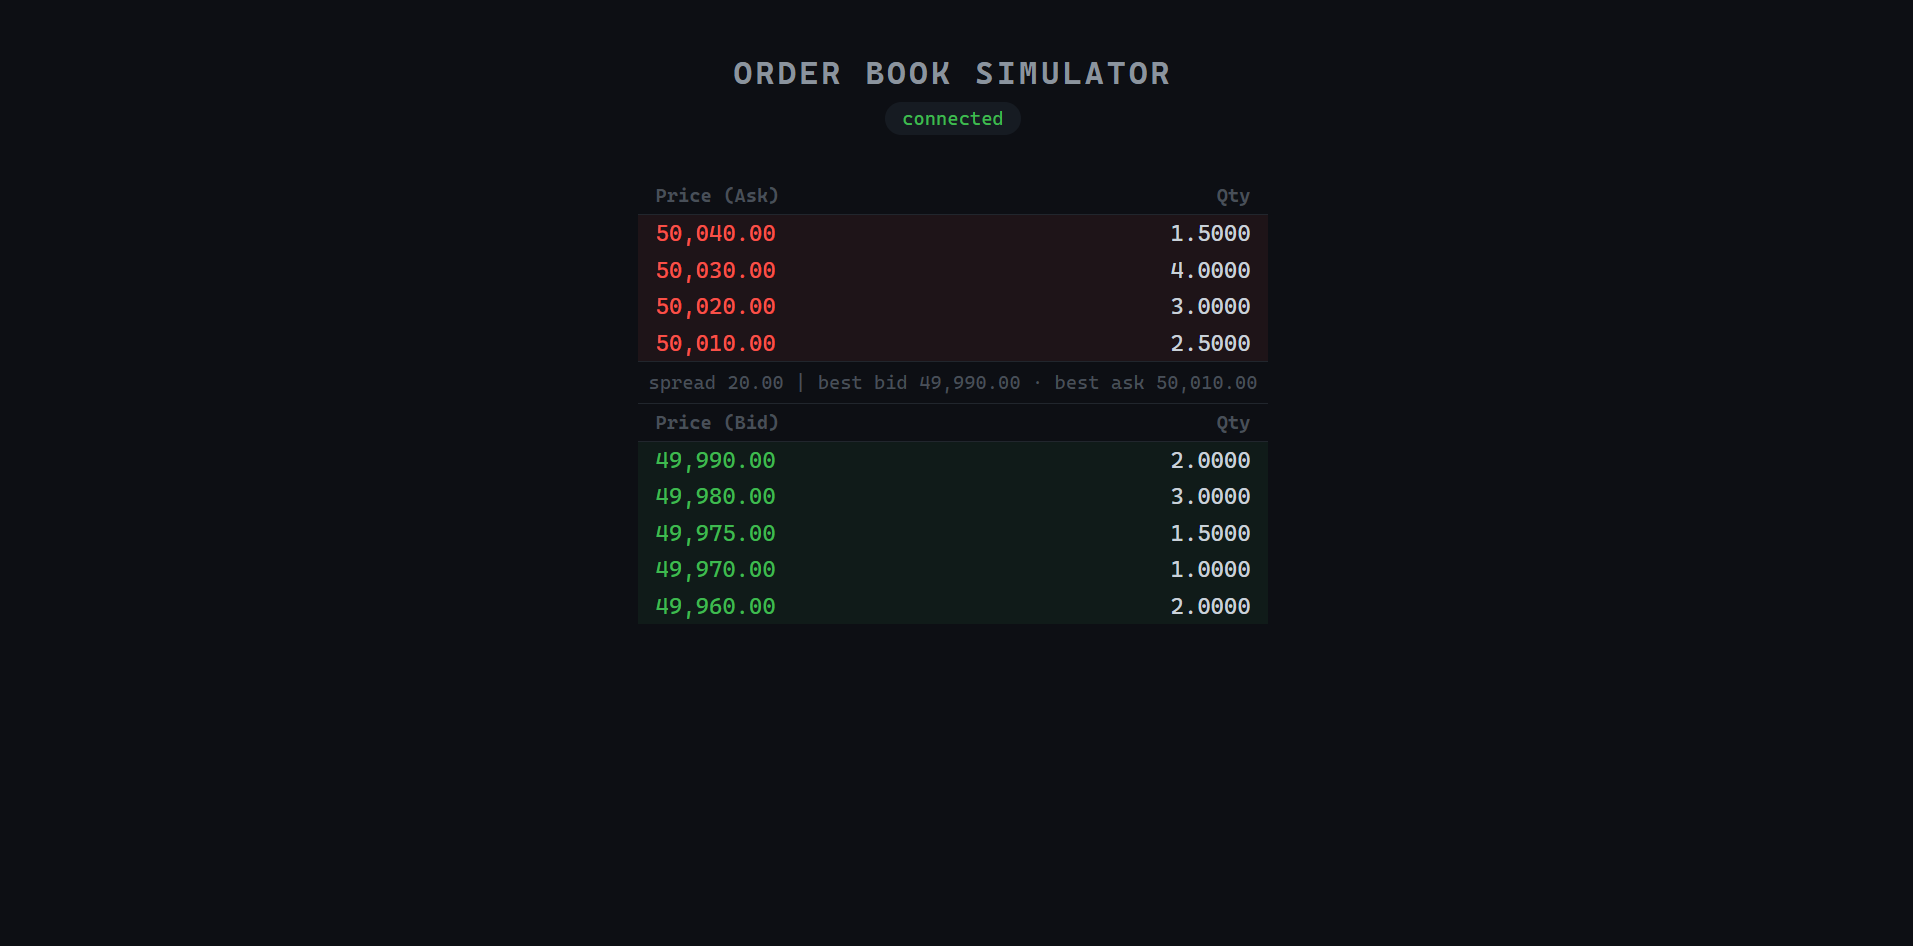
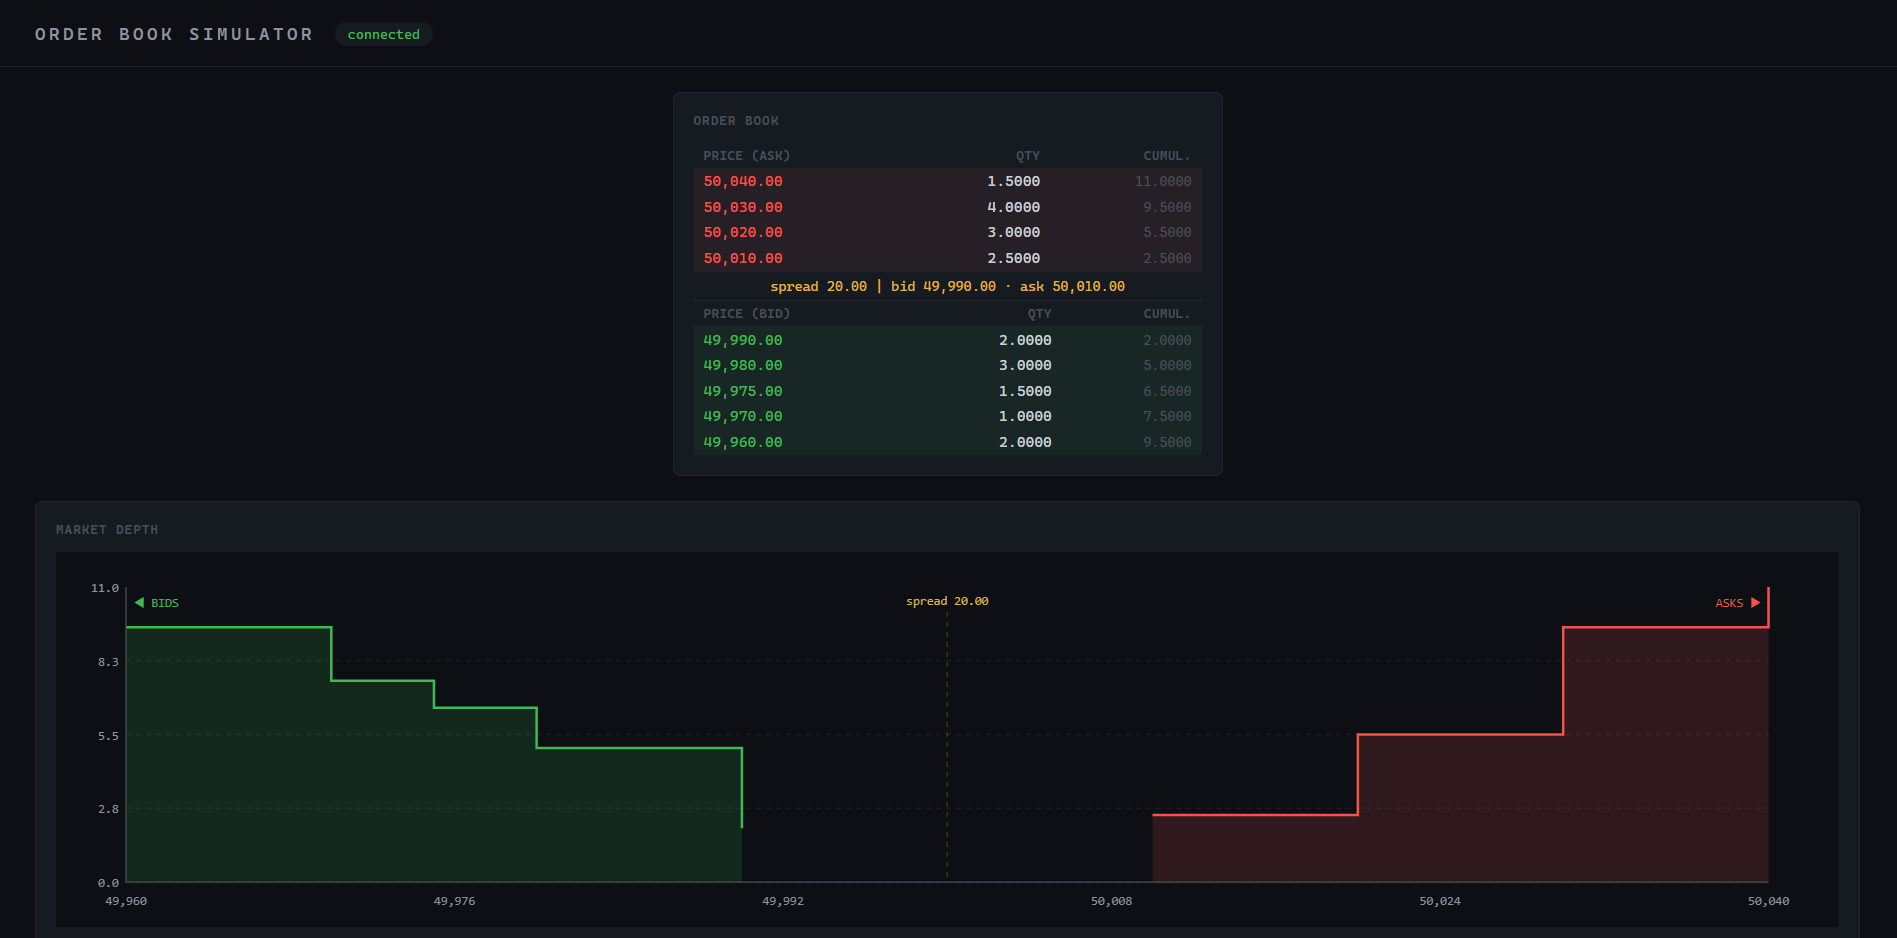
move depth chart below order book table, stack panels vertically

diff --git a/web/src/app.css b/web/src/app.css
@@ -52,10 +52,10 @@ h2 {
 /* ── Layout ──────────────────────────────────────────────────────────────── */
 main {
   display: flex;
+  flex-direction: column;
   gap: 20px;
   padding: 20px 32px 32px;
   flex: 1;
-  align-items: flex-start;
 }
 
 .panel {
@@ -65,21 +65,22 @@ main {
   padding: 16px;
 }
 
+/* Order book table: fixed width, centered */
 #book-panel {
-  width: 380px;
-  flex-shrink: 0;
+  width: 440px;
+  align-self: center;
 }
 
+/* Depth chart: full width */
 #chart-panel {
-  flex: 1;
-  min-width: 360px;
+  width: 100%;
 }
 
 /* ── Depth canvas ─────────────────────────────────────────────────────────── */
 #depth-canvas {
   display: block;
   width: 100%;
-  height: 340px;
+  height: 300px;
 }
 
 /* ── Order book table ────────────────────────────────────────────────────── */

diff --git a/web/index.html b/web/index.html
@@ -12,7 +12,7 @@
     </header>
 
     <main>
-      <!-- Left panel: classic order book table -->
+      <!-- Top panel: Level 2 order book table -->
       <section class="panel" id="book-panel">
         <h2>Order Book</h2>
 
@@ -33,7 +33,7 @@
         </table>
       </section>
 
-      <!-- Right panel: depth chart -->
+      <!-- Bottom panel: market depth chart -->
       <section class="panel" id="chart-panel">
         <h2>Market Depth</h2>
         <canvas id="depth-canvas"></canvas>
